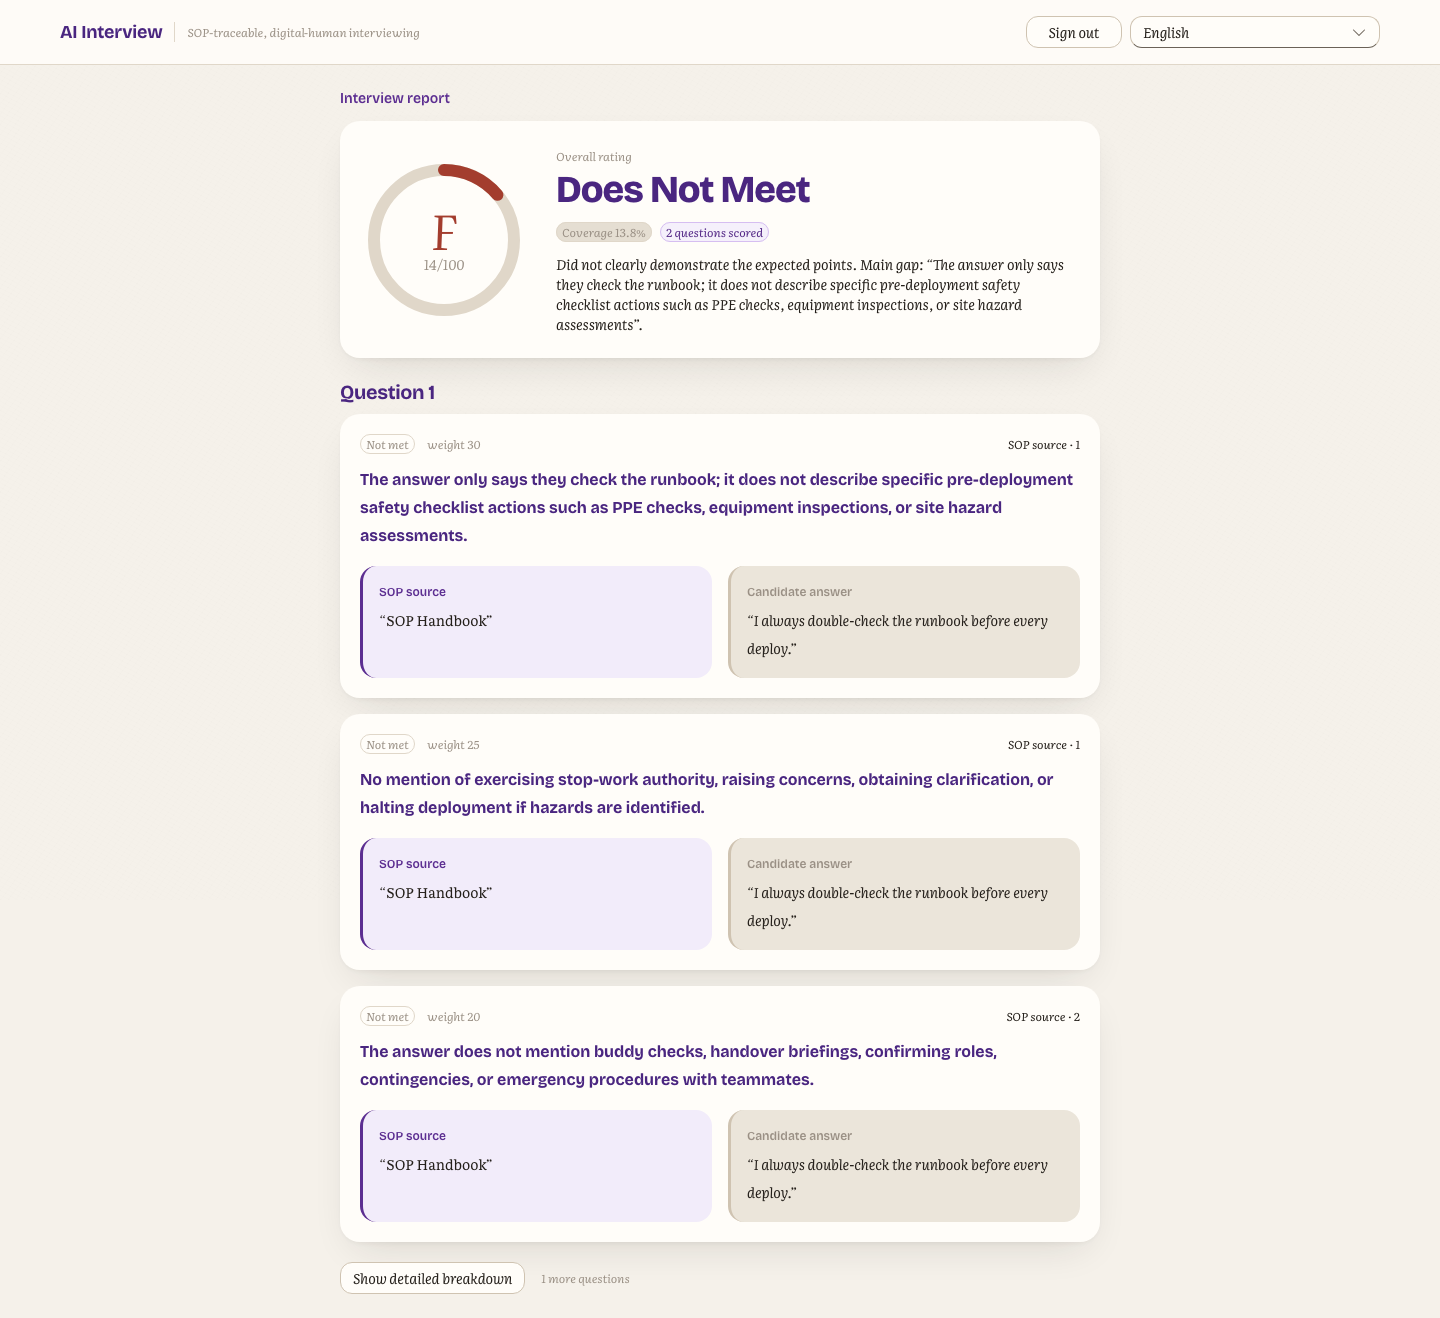
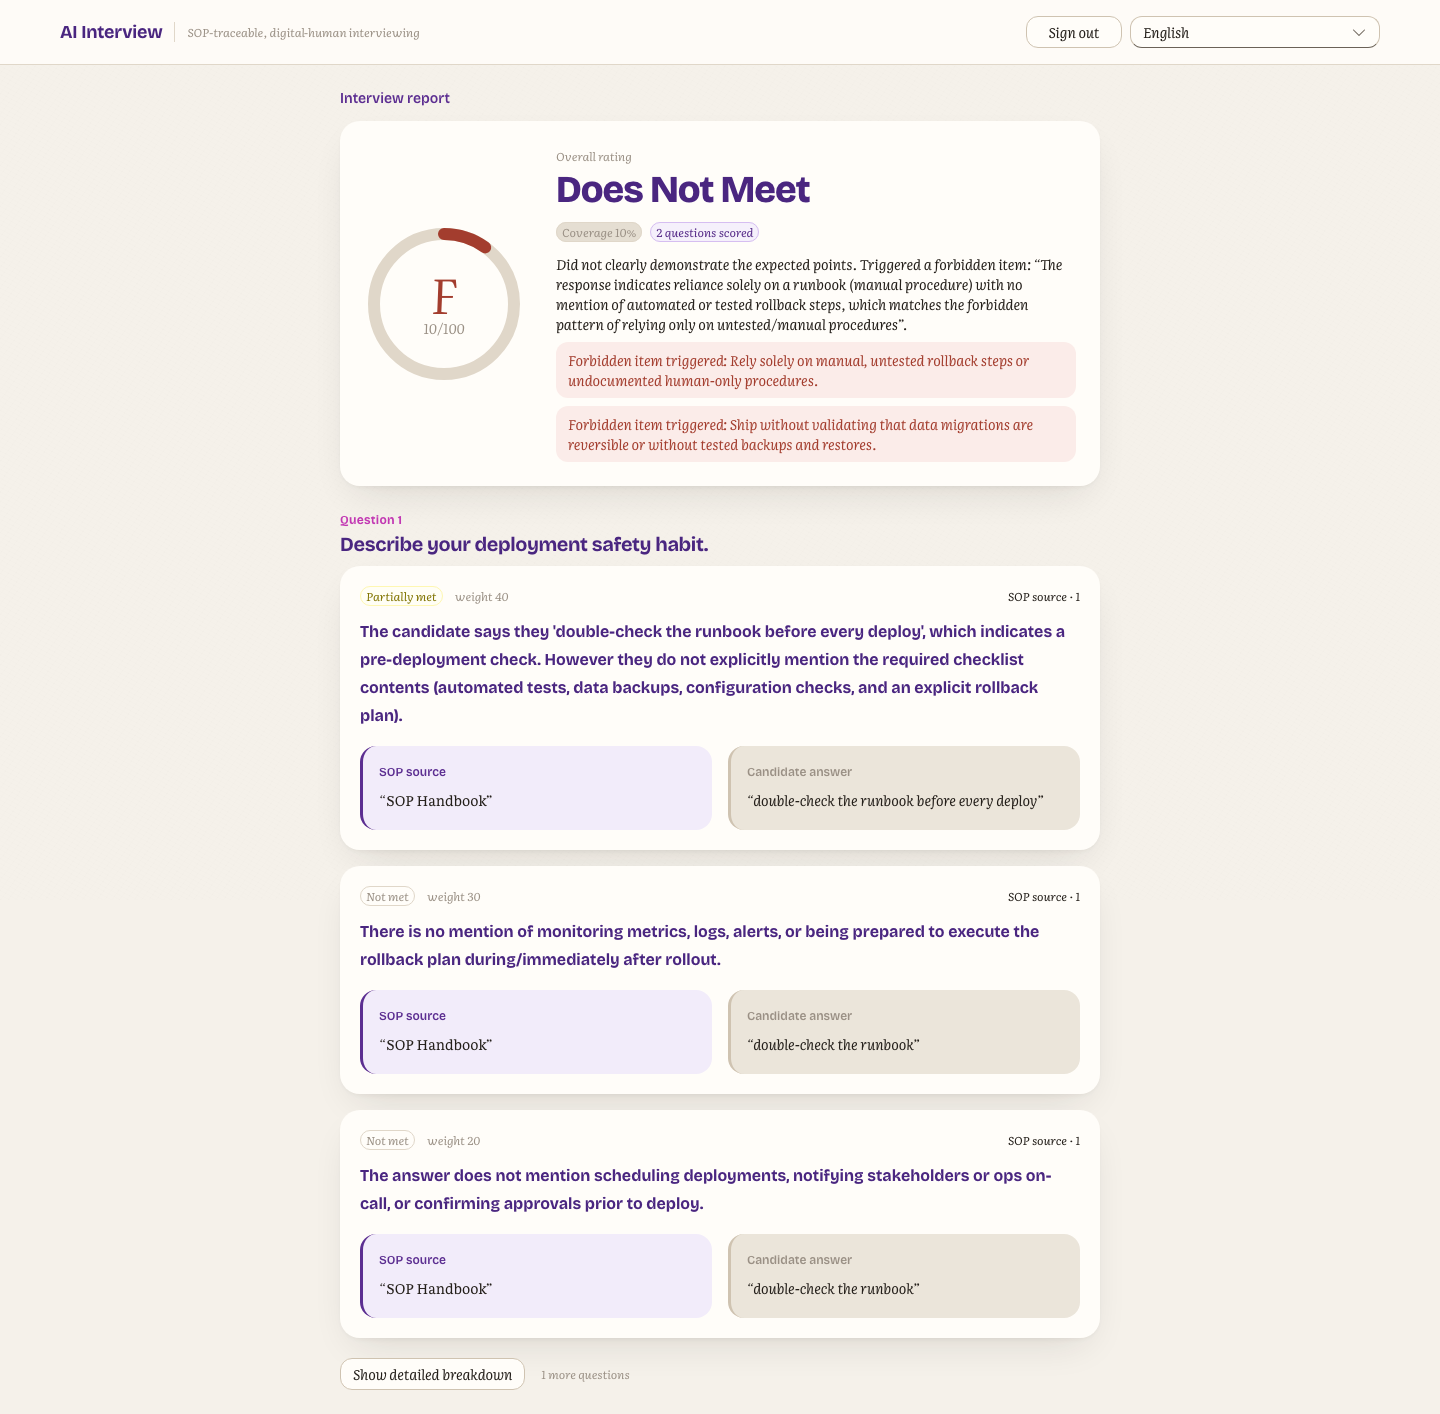
feat(report): the report names the question it is judging (v0.42.6.0)
The per-question payload carried `question_id` and no text, so the evidence
block and the detail accordion could only label a judgement "Question 3" — on
the one screen whose entire claim is traceability. A reader had to hold the
question in their head from the interview to make sense of the finding beside
it, which is backwards for a report that exists to be traceable.

`prompt` now rides on every per-question row: graded, stub and scoring-failed
alike. A report that can name some of its questions and not others is worse than
one that names none. The evidence block leads with the question text and keeps
the ordinal as an eyebrow above it; the detail accordion carries it too. A report
from before the field falls back to the ordinal rather than rendering an empty
heading, and a test covers that path.

Two defects this introduced, both found by OPENING the regenerated screenshot
rather than by a test:

- Without a prompt the eyebrow and the heading both printed "Question 1". When
  the test reported "found multiple elements" I fixed the component, not the
  test: no eyebrow when the heading IS the ordinal.
- `evidenceHead` carried the XXL top margin, so inserting an eyebrow in front of
  it left that gap BETWEEN the two — eyebrow jammed against the exec card above,
  loose from its own heading, the hierarchy inverted. The gap moved to the
  eyebrow, with a sibling rule for the no-prompt case.

Also caught, by tsc rather than by me: `evidence.question` is a `QuestionScore`
[…]

diff --git a/frontend/src/components/ReportView.tsx b/frontend/src/components/ReportView.tsx
@@ -64,14 +64,31 @@ const useStyles = makeStyles({
   },
   facts: { display: "flex", gap: tokens.spacingHorizontalS, flexWrap: "wrap", marginBottom: tokens.spacingVerticalM },
   /** The evidence block, given the weight the credibility claim deserves. */
+  /** The ordinal eyebrow owns the gap that separates the block from the exec card above it. The
+   *  heading used to carry it, but putting the eyebrow in front left that XXL space BETWEEN the two
+   *  — eyebrow jammed against the card, loose from its own heading, the hierarchy inverted. */
+  evidenceOrdinal: {
+    display: "block",
+    fontFamily: fonts.display,
+    fontSize: tokens.fontSizeBase200,
+    fontWeight: 700,
+    color: palette.magenta,
+    letterSpacing: "0.02em",
+    marginTop: tokens.spacingVerticalXXL,
+    marginBottom: tokens.spacingVerticalXS,
+  },
   evidenceHead: {
     fontFamily: fonts.display,
     fontWeight: 700,
     fontSize: tokens.fontSizeBase500,
     letterSpacing: "-0.02em",
     color: palette.ink,
-    margin: `${tokens.spacingVerticalXXL} 0 ${tokens.spacingVerticalM}`,
+    // No top margin: the eyebrow above supplies the separation when it is rendered, and when it is
+    // not (an older report with no prompt) this heading needs it instead — hence the sibling rule.
+    margin: `0 0 ${tokens.spacingVerticalM}`,
   },
+  /** Fallback for a report with no question text: the heading stands alone, so it takes the gap. */
+  evidenceHeadAlone: { marginTop: tokens.spacingVerticalXXL },
   evidenceList: { display: "flex", flexDirection: "column", gap: tokens.spacingVerticalL },
   itemCard: {
     backgroundColor: tokens.colorNeutralBackground1,
@@ -414,8 +431,25 @@ export function ReportView({ report }: { report: Report }) {
           TODOS.md rather than invented here. */}
       {evidence && (
         <>
-          <h3 className={styles.evidenceHead}>
-            {t("report.questionN", { n: evidence.index + 1 })}
+          {/* The report's whole claim is traceability, so the evidence block leads with the
+              question itself and keeps the ordinal as a small label above it. Older reports have no
+              `prompt`, so the ordinal is still the fallback rather than an empty heading. */}
+          {/* The ordinal is an eyebrow ONLY when the heading carries the question text. Without a
+              prompt (an older report) the heading IS the ordinal, and rendering both would print
+              "Question 1" twice. */}
+          {evidence.question.prompt && (
+            <span className={styles.evidenceOrdinal}>
+              {t("report.questionN", { n: evidence.index + 1 })}
+            </span>
+          )}
+          <h3
+            className={
+              evidence.question.prompt
+                ? styles.evidenceHead
+                : mergeClasses(styles.evidenceHead, styles.evidenceHeadAlone)
+            }
+          >
+            {evidence.question.prompt || t("report.questionN", { n: evidence.index + 1 })}
           </h3>
           <div className={styles.evidenceList} data-testid="report-evidence">
             {evidence.items.map((it, ii) => (
@@ -484,7 +518,8 @@ export function ReportView({ report }: { report: Report }) {
           {report.per_question.map((q: QuestionScore, qi) => (
             <AccordionItem value={q.question_id} key={q.question_id}>
               <AccordionHeader>
-                {t("report.questionN", { n: qi + 1 })} —{" "}
+                {t("report.questionN", { n: qi + 1 })}
+                {q.prompt ? `: ${q.prompt}` : ""} —{" "}
                 {q.outcome ? t(`report.outcome.${q.outcome}`) : (q.grade ?? "")} (
                 {Math.round(q.score ?? 0)}
                 /100){q.capped ? " ⚑" : ""}

diff --git a/frontend/src/components/ReportView.test.tsx b/frontend/src/components/ReportView.test.tsx
@@ -36,6 +36,7 @@ const SCORED: Report = {
   per_question: [
     {
       question_id: "q1",
+      prompt: "Describe your deployment safety habit.",
       score: 80,
       grade: "B",
       is_stub: false,
@@ -226,5 +227,34 @@ describe("ReportView composition", () => {
     renderReport(SCORED);
     expect(screen.queryByTestId("report-detail")).toBeNull();
     expect(screen.getByTestId("toggle-detail")).toBeInTheDocument();
+  });
+});
+
+
+describe("the report names the question it is judging", () => {
+  it("leads the evidence block with the question text, not just an ordinal", () => {
+    // The report is the one screen whose entire claim is traceability, and until v0.42.6.0 it could
+    // only say "Question 1" — a reader had to carry the question in their head from the interview to
+    // make sense of the finding beside it.
+    renderReport(SCORED);
+    expect(screen.getByText("Describe your deployment safety habit.")).toBeInTheDocument();
+    // The ordinal survives as a small label above it, so the position is still readable.
+    expect(screen.getAllByText("Question 1").length).toBeGreaterThanOrEqual(1);
+  });
+
+  it("falls back to the ordinal when a report predates the field", () => {
+    // An older scored interview has no `prompt`, and an empty heading would be worse than a number.
+    const noPrompt: Report = {
+      ...SCORED,
+      per_question: SCORED.per_question.map(({ prompt, ...rest }) => {
+        void prompt; // dropped on purpose: this is what an older scored report looks like
+        return rest;
+      }),
+    };
+    renderReport(noPrompt);
+    // Exactly once: without a prompt the heading IS the ordinal, so the eyebrow is not rendered on
+    // top of it. Two "Question 1"s in a row was a defect this change introduced and then fixed.
+    expect(screen.getAllByText("Question 1")).toHaveLength(1);
+    expect(screen.queryByText("Describe your deployment safety habit.")).not.toBeInTheDocument();
   });
 });

diff --git a/frontend/src/api/client.ts b/frontend/src/api/client.ts
@@ -113,6 +113,10 @@ export type Outcome = "Meets Expectations" | "Needs Improvement" | "Does Not Mee
  */
 export interface QuestionScore {
   question_id: string;
+  /** The question's own text (v0.42.6.0). Present on every row — graded, stub and scoring-failed —
+   *  so the report can name the question it is judging instead of labelling it "Question 3". Falls
+   *  back to the ordinal when a report predates the field. */
+  prompt?: string;
   is_stub?: boolean;
   // Scored fields:
   score?: number;

diff --git a/backend/app/interview/state_machine.py b/backend/app/interview/state_machine.py
@@ -574,7 +574,11 @@ async def score_and_finalize_events(
     for question_id, answer_text, task in prepared:
         if task is None:
             # No checklist authored for this question — length-based stub row.
-            per_question.append(scoring_service.stub_result_dict(question_id, answer_text))
+            per_question.append(
+                scoring_service.stub_result_dict(
+                    question_id, answer_text, prompt_by_id.get(question_id, "")
+                )
+            )
             continue
         failure = errors.get(question_id)
         if failure is not None:
@@ -586,6 +590,7 @@ async def score_and_finalize_events(
             per_question.append(
                 {
                     "question_id": question_id,
+                    "prompt": prompt_by_id.get(question_id, ""),
                     "is_stub": False,
                     "scoring_failed": True,
                     "scoring_error": type(failure).__name__,
@@ -618,6 +623,11 @@ async def score_and_finalize_events(
         per_question.append(
             {
                 "question_id": result.question_id,
+                # The question's own text. The report is the one screen whose entire claim is
+                # traceability, and until v0.42.6.0 it could only label a judgement "Question 3" —
+                # so a reader had to hold the question in their head from the interview to make
+                # sense of the finding beside it.
+                "prompt": prompt_by_id.get(result.question_id, ""),
                 "score": result.score,
                 "coverage_pct": result.coverage_pct,
                 "grade": grade_for_score(result.score),

diff --git a/backend/app/services/scoring_service.py b/backend/app/services/scoring_service.py
@@ -367,11 +367,16 @@ async def judge_prepared(task: ScoringTask, *, llm_provider: str | None = None) 
     raise last_error  # type: ignore[misc]
 
 
-def stub_result_dict(question_id: str, answer_text: str) -> dict:
-    """The F4-stub per-question row, used for questions that have no checklist authored yet."""
+def stub_result_dict(question_id: str, answer_text: str, prompt: str = "") -> dict:
+    """The F4-stub per-question row, used for questions that have no checklist authored yet.
+
+    ``prompt`` is the question's own text, so a stub row labels itself the same way a graded one
+    does — the report should not be able to name some of its questions and not others.
+    """
     stub = score_answer(question_id, answer_text)
     return {
         "question_id": question_id,
+        "prompt": prompt,
         "judgment": stub.judgment,
         "rationale": stub.rationale,
         "is_stub": True,

diff --git a/TODOS.md b/TODOS.md
@@ -204,18 +204,20 @@ background-image and the blur to a solid tint with no visible loss.
 **Effort:** human: ~2h / CC: ~30 min with the existing avatar-weaknet probe.
 **Priority:** P2 — cheap to measure, and the one path in this app where paint cost has bitten before.
 
-### The report cannot name its own questions
+### The report cannot name its own questions — DONE v0.42.6.0
 
-`QuestionScore` (the report payload) carries `question_id` and no question TEXT, so the report's
-evidence block and its detail accordion can only label a question "Question 3". On the one screen
-whose entire claim is traceability, that is the weakest possible label — a reader has to hold the
-question in their head from the interview to make sense of the judgement beside it.
+`prompt` now rides on every per-question row — graded, stub and scoring-failed alike, since a report
+that can name some of its questions and not others is worse than one that names none. The evidence
+block leads with the question text and keeps the ordinal as an eyebrow; the detail accordion carries
+it too. Older reports have no field, so the ordinal stays as the fallback.
 
-v0.42.0.0 deliberately did not fake it. The fix is a backend field (`prompt` on the per-question
-score, mirroring `AnsweredQuestionOut`), then one line in `ReportView`.
+Two defects this introduced, both found by **opening the screenshot** rather than by a test:
 
-**Effort:** human: ~2h / CC: ~20 min across backend schema + frontend.
-**Priority:** P2 — the report reads as less traceable than it actually is, which is backwards.
+1. Without a prompt the eyebrow and the heading both printed "Question 1". The component was fixed
+   (no eyebrow when the heading is the ordinal), not the test that caught it.
+2. `evidenceHead` carried the XXL top margin, so inserting an eyebrow above it left that gap
+   *between* the two — eyebrow jammed against the exec card, loose from its own heading, hierarchy
+   inverted. The gap moved to the eyebrow, with a sibling rule for the no-prompt case.
 
 ### Two griffel class joins left in the agent editor
 

diff --git a/CHANGELOG.md b/CHANGELOG.md
@@ -1,5 +1,29 @@
 # Changelog
 
+## 0.42.6.0 (2026-10-04)
+
+### Changed
+- **The report names the question it is judging.** The per-question payload carried `question_id`
+  and no text, so the evidence block and the detail accordion could only say "Question 3" — on the
+  one screen whose entire claim is traceability, which meant a reader had to hold the question in
+  their head from the interview to make sense of the finding beside it. `prompt` now rides on every
+  row, graded / stub / scoring-failed alike: a report that can name some of its questions and not
+  others is worse than one that names none. The evidence block leads with the question and keeps the
+  ordinal as an eyebrow above it; a report from before the field falls back to the ordinal rather
+  than showing an empty heading.
+
+### Fixed
+- Two defects the change above introduced, both caught by opening the regenerated screenshot rather
+  than by a test: without a prompt the eyebrow and the heading both printed "Question 1" (the
+  component now omits the eyebrow when the heading *is* the ordinal), and the XXL separation that
+  used to sit on the heading ended up *between* eyebrow and heading — jammed against the exec card
+  above, loose from its own title, the hierarchy inverted. The gap moved onto the eyebrow.
+
+### Notes
+- The screenshot-freshness guard added in v0.42.5.0 fired on its first real change: altering
+  `ReportView.tsx` turned both report images red with the recapture command attached, which is
+  exactly the omission that let the README go five weeks stale. It caught the author of the guard.
+
 ## 0.42.5.0 (2026-10-04)
 
 ### Added
